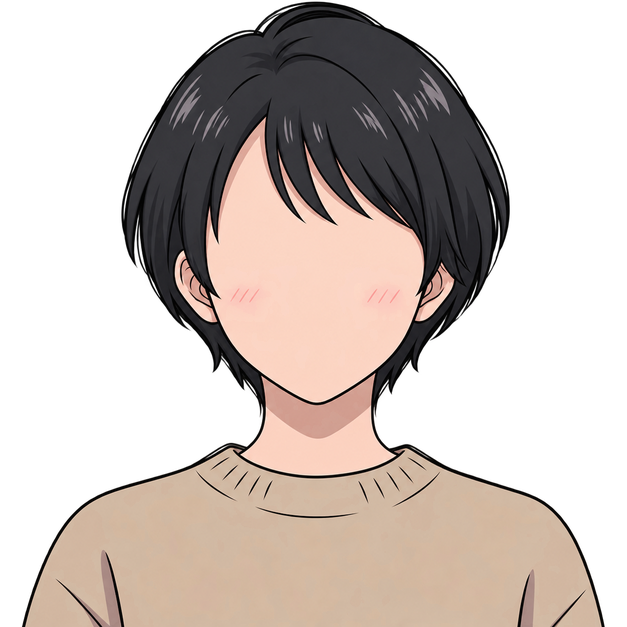
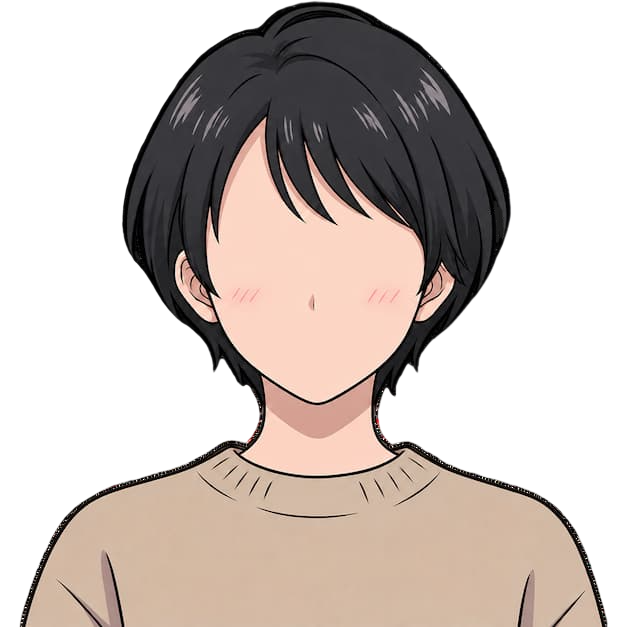
Add files via upload

diff --git a/static/app.js b/static/app.js
@@ -24,6 +24,7 @@ const LAYERS = {
 let nanakoEyes=null,nanakoMouth=null,nanakoMotion=null;
 const layerCache=new Map();
 let blinkTimer=0,blinkToken=0,blinkEnabled=true;
+let idleMouthTimer=0,idleMouthToken=0,idleMouthEnabled=true;
 let lipRaf=0,lipRunning=false,lipEnvelope=null,lastLipFrame="closed",lastLipUpdate=0;
 
 function sleep(ms){return new Promise(r=>setTimeout(r,ms));}
@@ -33,18 +34,157 @@ function placePart(el,def){if(!el||!def)return;el.style.left=`${def.x/627*100}%`
 function setEyes(name){const def=LAYERS.eyes[name];const im=layerCache.get(`eyes:${name}`);if(!def||!im||!nanakoEyes)return;placePart(nanakoEyes,def);if(nanakoEyes.src!==im.src)nanakoEyes.src=im.src;}
 function setMouth(name){const def=LAYERS.mouth[name];const im=layerCache.get(`mouth:${name}`);if(!def||!im||!nanakoMouth)return;placePart(nanakoMouth,def);if(lastLipFrame!==name||nanakoMouth.src!==im.src){nanakoMouth.src=im.src;lastLipFrame=name;}}
 function cancelBlink(){clearTimeout(blinkTimer);blinkTimer=0;blinkToken+=1;}
-async function blinkOnce(doubleBlink=false){const token=++blinkToken;if(!blinkEnabled)return;setEyes("half");await sleep(65);if(token!==blinkToken||!blinkEnabled)return;setEyes("closed");await sleep(92);if(token!==blinkToken||!blinkEnabled)return;setEyes("half");await sleep(58);if(token!==blinkToken||!blinkEnabled)return;setEyes("open");if(doubleBlink){await sleep(145);if(token!==blinkToken||!blinkEnabled)return;setEyes("half");await sleep(55);if(token!==blinkToken||!blinkEnabled)return;setEyes("closed");await sleep(82);if(token!==blinkToken||!blinkEnabled)return;setEyes("half");await sleep(52);if(token!==blinkToken||!blinkEnabled)return;setEyes("open");}}
-function scheduleBlink(first=false){cancelBlink();if(!blinkEnabled)return;blinkTimer=setTimeout(async()=>{await blinkOnce(Math.random()<.12);scheduleBlink(false);},first?1200:3000+Math.random()*4000);}
-function startIdleLoop(first=false){blinkEnabled=true;setMouth("closed");if(nanakoMotion)nanakoMotion.classList.remove("talking");scheduleBlink(first);}
-function stopIdleLoop(){blinkEnabled=false;cancelBlink();}
+
+async function blinkOnce(doubleBlink=false){
+  const token=++blinkToken;
+  if(!blinkEnabled)return;
+
+  setEyes("half");
+  await sleep(72);
+  if(token!==blinkToken||!blinkEnabled)return;
+
+  setEyes("closed");
+  await sleep(96);
+  if(token!==blinkToken||!blinkEnabled)return;
+
+  setEyes("half");
+  await sleep(62);
+  if(token!==blinkToken||!blinkEnabled)return;
+
+  setEyes("open");
+
+  if(doubleBlink){
+    await sleep(135+Math.random()*55);
+    if(token!==blinkToken||!blinkEnabled)return;
+
+    setEyes("half");
+    await sleep(56);
+    if(token!==blinkToken||!blinkEnabled)return;
+
+    setEyes("closed");
+    await sleep(82);
+    if(token!==blinkToken||!blinkEnabled)return;
+
+    setEyes("half");
+    await sleep(52);
+    if(token!==blinkToken||!blinkEnabled)return;
+
+    setEyes("open");
+  }
+}
+
+async function sleepyHalfBlink(){
+  const token=++blinkToken;
+  if(!blinkEnabled)return;
+
+  setEyes("half");
+  await sleep(180+Math.random()*170);
+  if(token!==blinkToken||!blinkEnabled)return;
+  setEyes("open");
+}
+
+function scheduleBlink(first=false){
+  cancelBlink();
+  if(!blinkEnabled)return;
+
+  const delay=first ? 1100 : 2600+Math.random()*4300;
+
+  blinkTimer=setTimeout(async()=>{
+    const r=Math.random();
+    if(r<.10){
+      await blinkOnce(true);
+    }else if(r<.18){
+      await sleepyHalfBlink();
+    }else{
+      await blinkOnce(false);
+    }
+    scheduleBlink(false);
+  },delay);
+}
+
+function cancelIdleMouth(){
+  clearTimeout(idleMouthTimer);
+  idleMouthTimer=0;
+  idleMouthToken+=1;
+}
+
+async function idleMouthMoment(){
+  const token=++idleMouthToken;
+  if(!idleMouthEnabled||lipRunning||currentAudio)return;
+
+  setMouth("small");
+  await sleep(110+Math.random()*90);
+
+  if(token!==idleMouthToken||!idleMouthEnabled||lipRunning||currentAudio)return;
+
+  if(Math.random()<.16){
+    setMouth("medium");
+    await sleep(80+Math.random()*70);
+    if(token!==idleMouthToken||!idleMouthEnabled||lipRunning||currentAudio)return;
+  }
+
+  setMouth("closed");
+}
+
+function scheduleIdleMouth(first=false){
+  cancelIdleMouth();
+  if(!idleMouthEnabled||lipRunning)return;
+
+  const delay=first
+    ? 5200+Math.random()*3000
+    : 6500+Math.random()*8500;
+
+  idleMouthTimer=setTimeout(async()=>{
+    await idleMouthMoment();
+    scheduleIdleMouth(false);
+  },delay);
+}
+
+function startIdleLoop(first=false){
+  blinkEnabled=true;
+  idleMouthEnabled=true;
+  if(!lipRunning)setMouth("closed");
+  if(nanakoMotion)nanakoMotion.classList.remove("talking");
+  scheduleBlink(first);
+  scheduleIdleMouth(first);
+}
+
+function stopIdleLoop(){
+  blinkEnabled=false;
+  idleMouthEnabled=false;
+  cancelBlink();
+  cancelIdleMouth();
+}
 
 function bytesFromAudioSource(b){let s=String(b||"");if(!s)return null;if(s.startsWith("data:"))s=s.slice(s.indexOf(",")+1);try{const bin=atob(s);const u=new Uint8Array(bin.length);for(let i=0;i<bin.length;i++)u[i]=bin.charCodeAt(i);return u.buffer;}catch{return null;}}
 async function buildLipEnvelope(b){const ab=bytesFromAudioSource(b);if(!ab)return null;const OAC=window.OfflineAudioContext||window.webkitOfflineAudioContext;const AC=window.AudioContext||window.webkitAudioContext;if(!OAC&&!AC)return null;let ac=null;let offline=true;try{if(OAC){ac=new OAC(1,1,44100);}else{ac=new AC();offline=false;}const buf=await ac.decodeAudioData(ab.slice(0));const sr=buf.sampleRate,binSec=.04,bin=Math.max(1,Math.round(sr*binSec)),len=Math.ceil(buf.length/bin),vals=new Float32Array(len);for(let i=0;i<len;i++){let sum=0,count=0;const start=i*bin,end=Math.min(buf.length,start+bin);for(let c=0;c<buf.numberOfChannels;c++){const d=buf.getChannelData(c);for(let j=start;j<end;j+=2){const v=d[j];sum+=v*v;count++;}}vals[i]=count?Math.sqrt(sum/count):0;}const sorted=Array.from(vals).filter(v=>v>0).sort((a,b)=>a-b);const pct=p=>sorted.length?sorted[Math.min(sorted.length-1,Math.floor((sorted.length-1)*p))]:0;const floor=pct(.18),peak=Math.max(pct(.9),floor+.0001);const norm=new Float32Array(vals.length);let sm=0;for(let i=0;i<vals.length;i++){let n=Math.max(0,Math.min(1,(vals[i]-floor)/(peak-floor)));sm=sm*.46+n*.54;norm[i]=sm;}return{binSec,values:norm};}catch(err){console.warn("[Nanako LipSync] Audio analysis unavailable; rhythmic fallback will be used.",err);return null;}finally{if(!offline){try{await ac?.close();}catch{}}}}
 function fallbackMouth(t){const seq=["small","medium","small","wide","medium","small","closed","medium","round","medium","small"];return seq[Math.floor(t*9)%seq.length];}
 function envelopeMouth(t){if(!lipEnvelope)return fallbackMouth(t);const i=Math.max(0,Math.min(lipEnvelope.values.length-1,Math.floor(t/lipEnvelope.binSec)));const v=lipEnvelope.values[i]||0;if(v<.075)return "closed";if(v<.27)return "small";if(v<.57)return "medium";const phase=Math.floor(t*7);if(v<.8&&phase%9===0)return "round";return "wide";}
 function lipTick(now){if(!lipRunning||!currentAudio)return;if(now-lastLipUpdate>=70){lastLipUpdate=now;setMouth(envelopeMouth(currentAudio.currentTime||0));}lipRaf=requestAnimationFrame(lipTick);}
-function startTalkingLoop(){lipRunning=true;lastLipUpdate=0;if(nanakoMotion)nanakoMotion.classList.add("talking");setMouth("small");cancelAnimationFrame(lipRaf);lipRaf=requestAnimationFrame(lipTick);console.log("[Nanako Layers] TALKING: mouth sync active; blinking remains independent.");}
-function stopTalkingLoop(){lipRunning=false;cancelAnimationFrame(lipRaf);lipRaf=0;lipEnvelope=null;setMouth("closed");if(nanakoMotion)nanakoMotion.classList.remove("talking");console.log("[Nanako Layers] TALKING stopped; mouth closed.");}
+function startTalkingLoop(){
+  if(lipRunning)return;
+  lipRunning=true;
+  idleMouthEnabled=false;
+  cancelIdleMouth();
+  lastLipUpdate=0;
+  if(nanakoMotion)nanakoMotion.classList.add("talking");
+  setMouth("small");
+  cancelAnimationFrame(lipRaf);
+  lipRaf=requestAnimationFrame(lipTick);
+  console.log("[Nanako Layers] TALKING: lip sync active; blinking continues independently.");
+}
+
+function stopTalkingLoop(){
+  lipRunning=false;
+  cancelAnimationFrame(lipRaf);
+  lipRaf=0;
+  lipEnvelope=null;
+  setMouth("closed");
+  idleMouthEnabled=true;
+  if(nanakoMotion)nanakoMotion.classList.remove("talking");
+  if(blinkEnabled)scheduleIdleMouth(false);
+  console.log("[Nanako Layers] TALKING stopped; idle mouth behavior restored.");
+}
 
 // ============================================================
 // APP / VOICE LOGIC
@@ -124,16 +264,15 @@ async function play(b,m){
 
   await stopAudio(false);
 
-  // Critical Safari simplification:
+  // Safari simplification:
   // completely release microphone capture while Nanako is speaking.
-  // There is NO voice barge-in detection in this build.
+  // Interruption is manual via the on-screen button.
   cleanup();
   release();
 
-  // Analyse a separate copy of the returned TTS for mouth amplitude only.
-  // This does NOT route or modify Nanako's actual speaker audio.
+  // Reset old lip-sync analysis. The analysis uses a separate copy and
+  // never modifies the actual HTMLAudio playback.
   lipEnvelope=null;
-  const lipPromise=buildLipEnvelope(b).then(env=>{lipEnvelope=env;return env;});
 
   const a=ttsAudio;
   a.src=normalizeAudioSource(b,m);
@@ -142,6 +281,11 @@ async function play(b,m){
   a.playbackRate=.86;
   a.defaultPlaybackRate=.86;
   currentAudio=a;
+
+  buildLipEnvelope(b)
+    .then(env=>{if(currentAudio===a)lipEnvelope=env;})
+    .catch(()=>{});
+
   convButton();
 
   let finished=false;
@@ -178,7 +322,7 @@ async function play(b,m){
 
   try{
     await a.play();
-    if(currentAudio===a&&characterMode!=="talking")startTalkingLoop();
+    if(currentAudio===a&&!lipRunning)startTalkingLoop();
     return true;
   }catch(x){
     console.error("[Nanako TTS] Playback failed:",x);
@@ -208,7 +352,31 @@ async function stopMode(){active=false;if(rec?.state==="recording")stopRec(false
 async function reset(){await stopMode();try{await fetch(RESET,{method:"POST"})}catch{}history.length=0;renderHistory();setScore(0);e.jp.textContent="こんにちは！ななこです。今日も気楽に話そう。";e.roText.textContent=e.enText.textContent="";e.corr.hidden=e.settings.hidden=e.historyModal.hidden=true}
 
 e.send.onclick=send;e.input.onkeydown=x=>{if(x.key==="Enter"){x.preventDefault();send()}};e.ro.onclick=()=>{showRO=!showRO;quick()};e.en.onclick=()=>{showEN=!showEN;quick()};e.mute.onclick=async()=>{muted=!muted;quick();if(muted&&currentAudio)await stopAudio(active)};e.conv.onclick=async()=>{if(currentAudio&&active){console.log("[Nanako] Manual interruption.");stopAudio(true);return}active?await stopMode():await startMode()};e.menu.onclick=()=>e.settings.hidden=false;e.closeSettings.onclick=()=>e.settings.hidden=true;e.historyBtn.onclick=()=>{e.settings.hidden=true;e.historyModal.hidden=false};e.closeHistory.onclick=()=>e.historyModal.hidden=true;e.settings.onclick=x=>{if(x.target===e.settings)e.settings.hidden=true};e.historyModal.onclick=x=>{if(x.target===e.historyModal)e.historyModal.hidden=true};e.levelGrid.onclick=x=>{let b=x.target.closest("[data-level]");if(!b)return;level=b.dataset.level;e.levelGrid.querySelectorAll("[data-level]").forEach(c=>c.classList.toggle("active",c.dataset.level===level));e.levelBadge.textContent=e.levelValue.textContent=label(level)};e.reset.onclick=reset;
-window.addEventListener("beforeunload",()=>{stopTalkingLoop();stopIdleLoop();active=false;try{if(rec?.state==="recording")rec.stop()}catch{}cleanup();release();currentAudio?.pause()});if("serviceWorker"in navigator)window.addEventListener("load",()=>navigator.serviceWorker.register("./sw.js").catch(console.warn));
+window.addEventListener("beforeunload",()=>{
+  stopTalkingLoop();
+  stopIdleLoop();
+  active=false;
+  try{if(rec?.state==="recording")rec.stop()}catch{}
+  cleanup();
+  release();
+  currentAudio?.pause();
+});
+
+document.addEventListener("visibilitychange",()=>{
+  if(document.visibilityState!=="visible")return;
+
+  // Safari can suspend animation timers when a tab is backgrounded.
+  // Re-establish the idle face cleanly after returning.
+  if(!currentAudio){
+    setEyes("open");
+    setMouth("closed");
+    startIdleLoop(false);
+  }
+});
+
+if("serviceWorker"in navigator){
+  window.addEventListener("load",()=>navigator.serviceWorker.register("./sw.js").catch(console.warn));
+}
 
 async function boot(){
   setScore(0);quick();convButton();renderHistory();nanakoEyes=document.getElementById("nanakoEyes");nanakoMouth=document.getElementById("nanakoMouth");nanakoMotion=document.querySelector(".nanako-motion");
@@ -217,7 +385,7 @@ async function boot(){
     setEyes("open");
     setMouth("closed");
     startIdleLoop(true);
-    console.log("[Nanako] Layered-face renderer v7 loaded.");
+    console.log("[Nanako] Layered-face renderer v7.1 FIX loaded.");
   }catch(err){
     console.error("[Nanako Renderer] Failed to preload:", err);
     error("Nanako images failed to load.");

diff --git a/sw.js b/sw.js
@@ -1,4 +1,4 @@
-const CACHE_NAME="nanako-shell-v11-layered-face";
+const CACHE_NAME="nanako-shell-v12-layered-face-v71-fix";
 const APP_SHELL=["./", "./index.html", "./manifest.webmanifest", "./static/style.css", "./static/app.js", "./static/characters/nanako/layers/base/base.png", "./static/characters/nanako/layers/eyes/open.png", "./static/characters/nanako/layers/eyes/half.png", "./static/characters/nanako/layers/eyes/closed.png", "./static/characters/nanako/layers/mouth/closed.png", "./static/characters/nanako/layers/mouth/small.png", "./static/characters/nanako/layers/mouth/medium.png", "./static/characters/nanako/layers/mouth/wide.png", "./static/characters/nanako/layers/mouth/round.png"];
 self.addEventListener("install",e=>{e.waitUntil(caches.open(CACHE_NAME).then(c=>c.addAll(APP_SHELL)));self.skipWaiting();});
 self.addEventListener("activate",e=>{e.waitUntil(caches.keys().then(keys=>Promise.all(keys.filter(k=>k!==CACHE_NAME).map(k=>caches.delete(k)))).then(()=>self.clients.claim()));});
